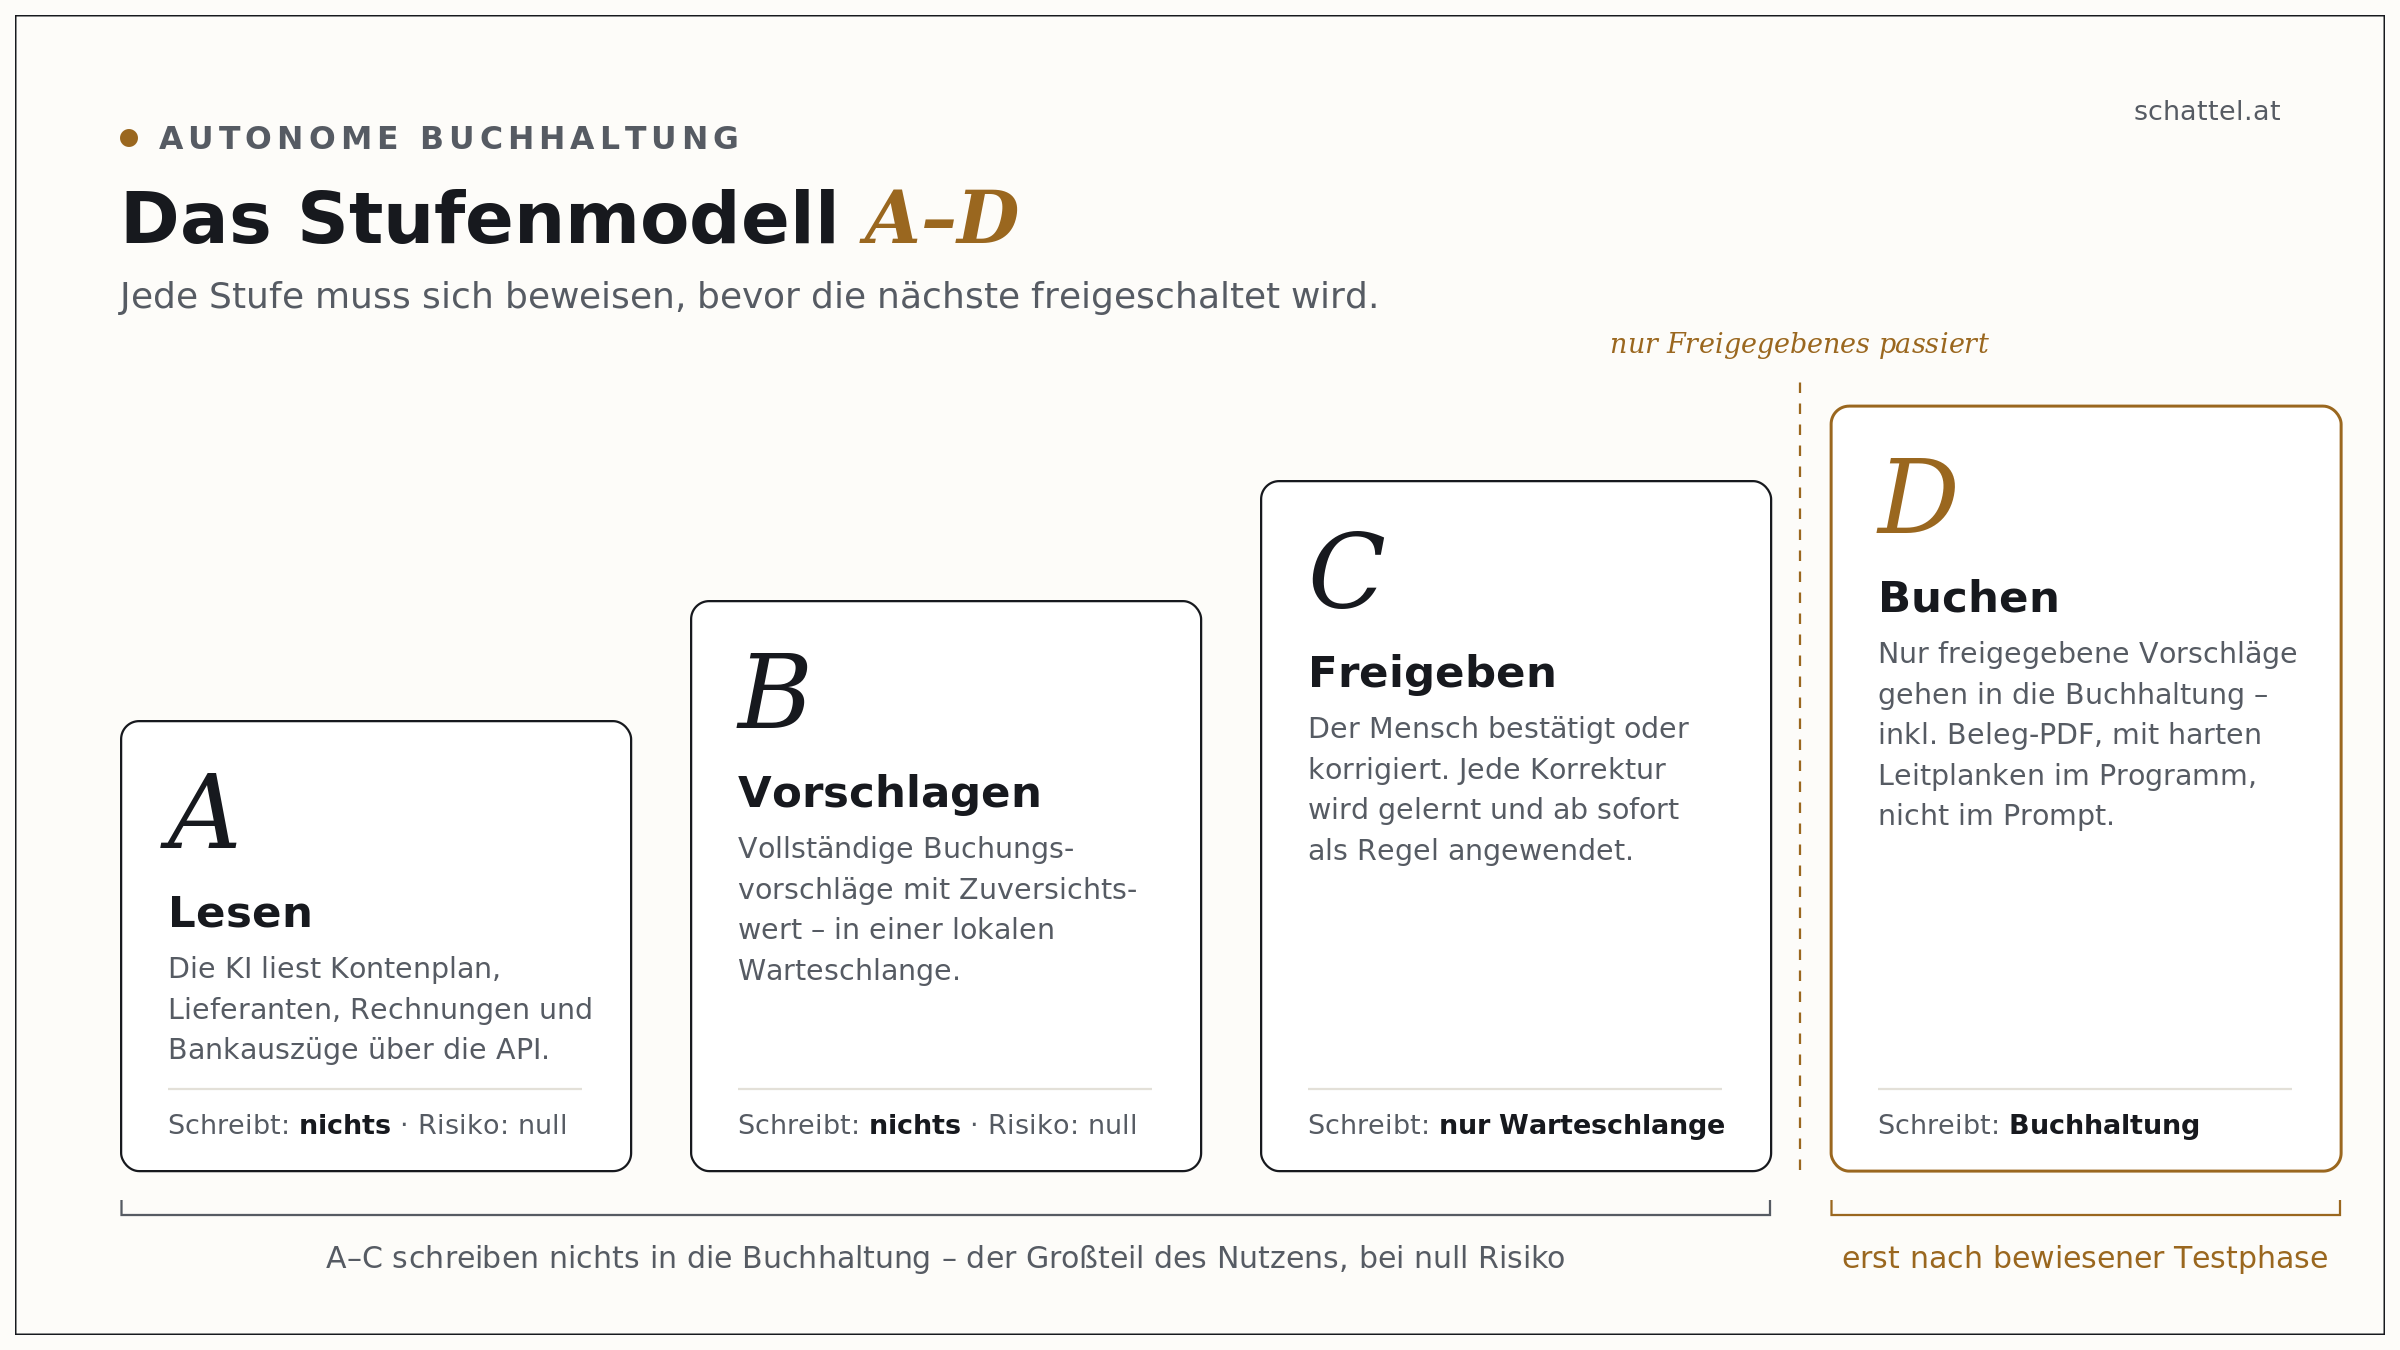
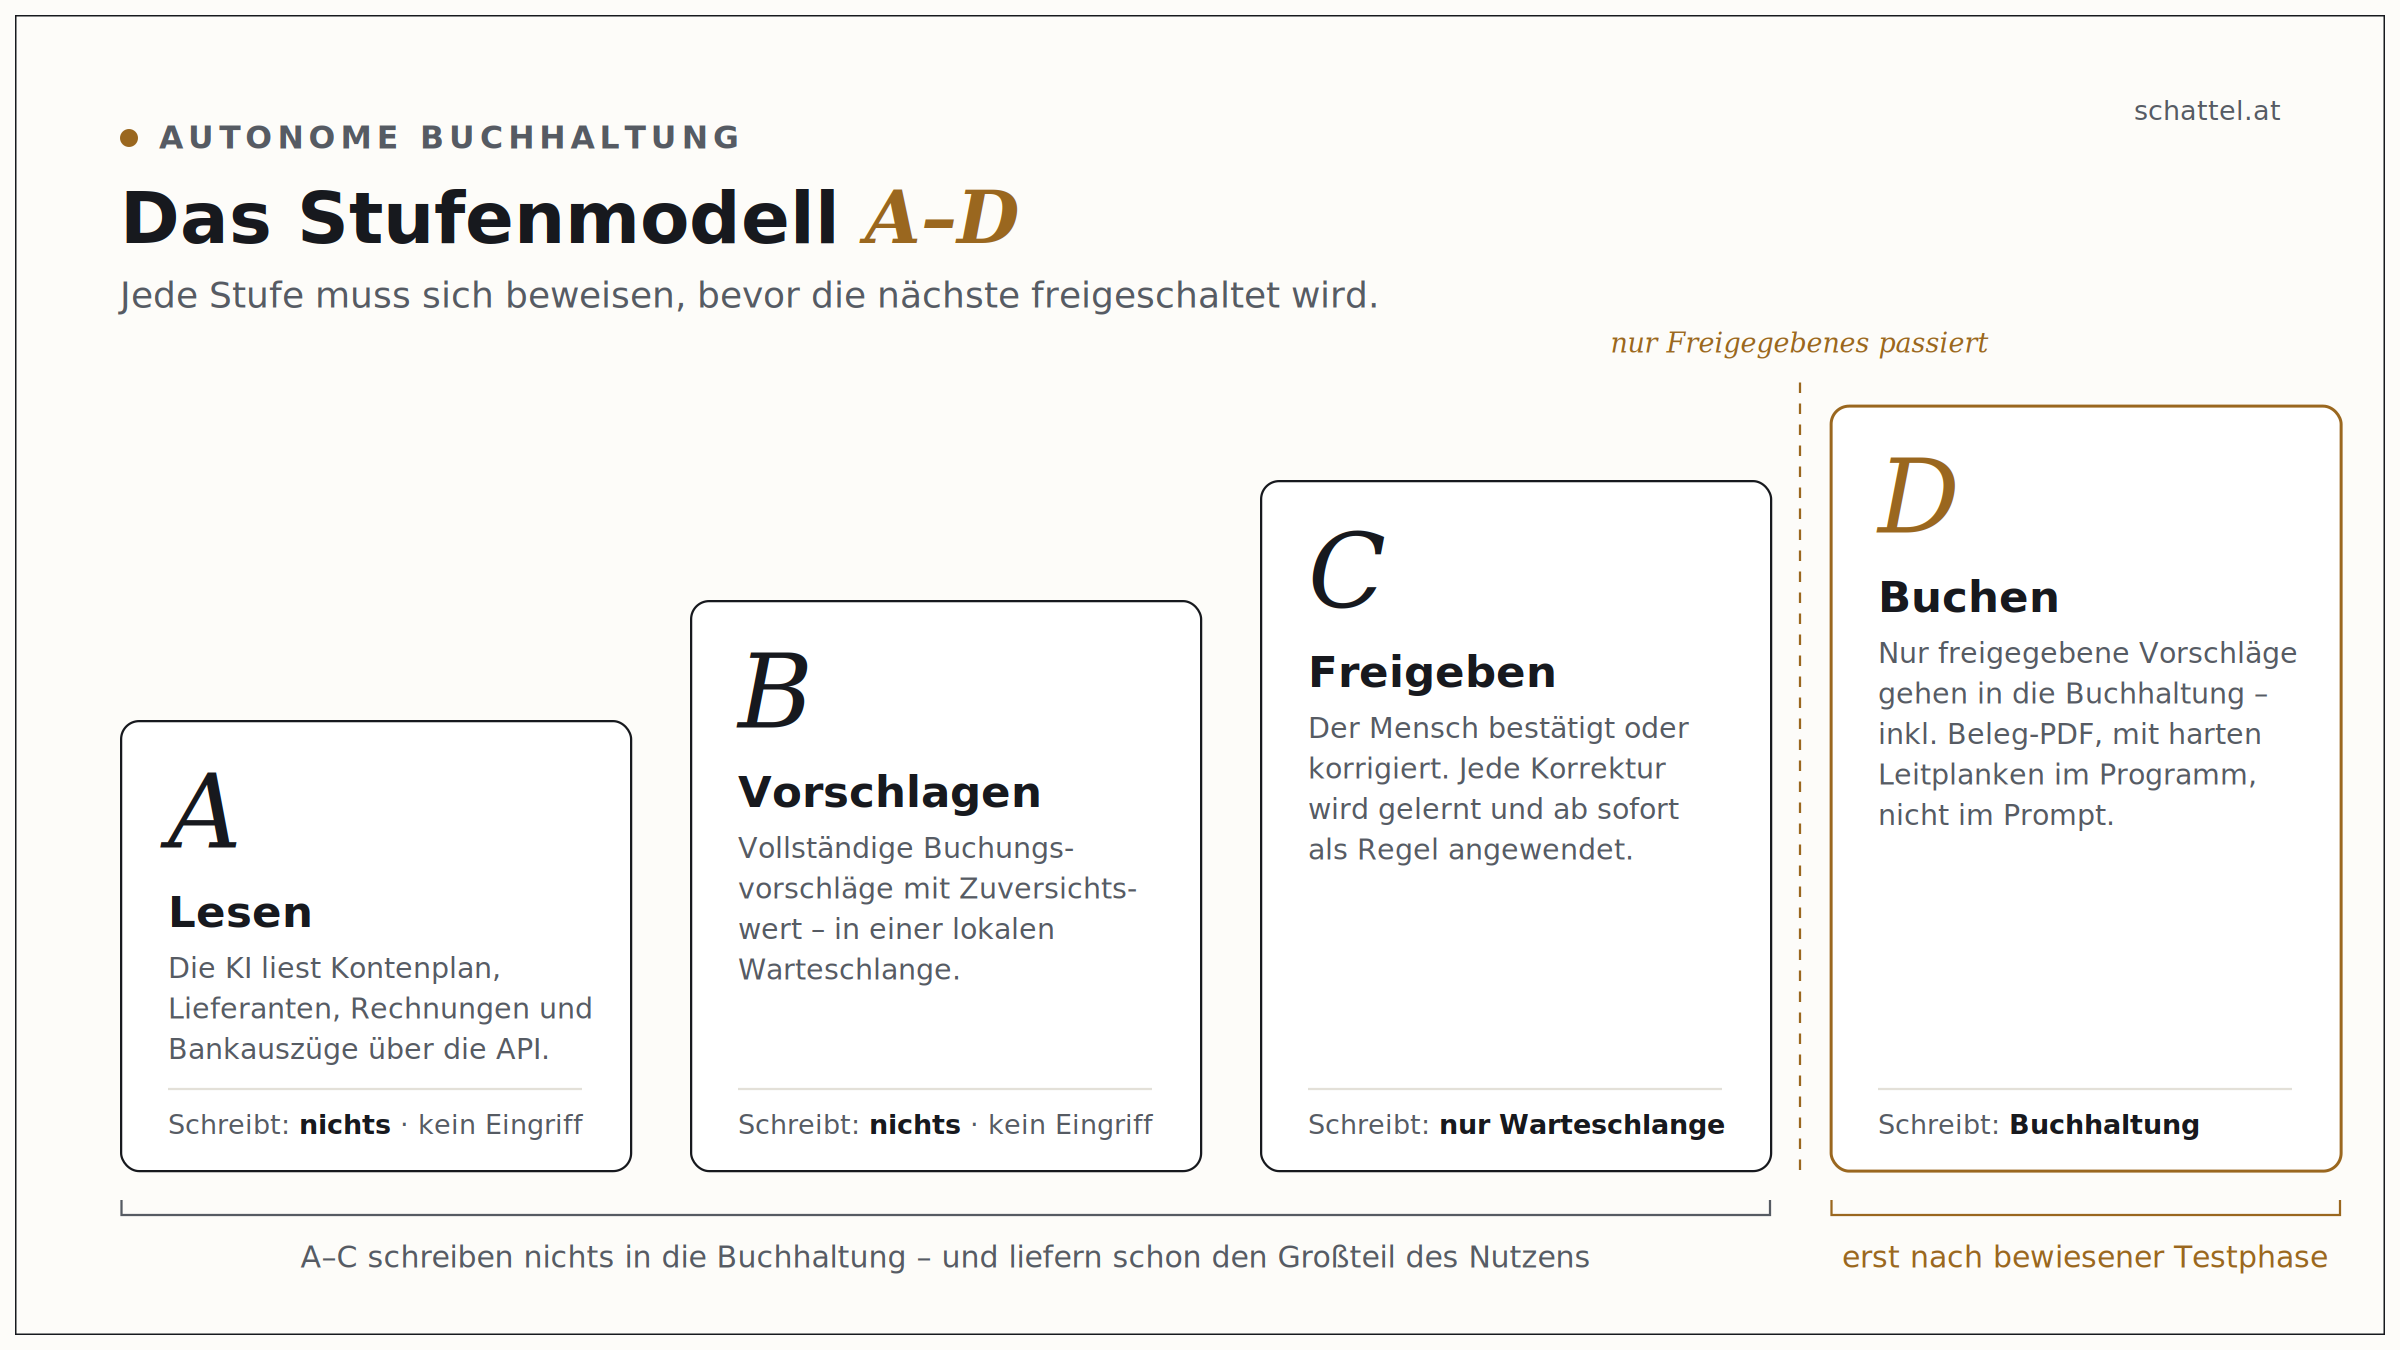
Korrekturrunde 2: Stufenmodell-Grafik ohne "Risiko: null" + zwei Textnachzüge
- Grafiktausch byte-identisch aus dem Master (md5-geprüft), Markup unverändert
- Bauanleitung: "Stufen ohne Buchungszugriff", UID-Fehlen nur als Hinweis
  (maßgeblich Leistung/Leistungsort/Unternehmerstatus)
- AI Act: AVV auch im ersten DSGVO-Absatz auf externe Dienstleister eingeschränkt

diff --git a/src/pages/blog/autonome-buchhaltung-bauanleitung.md b/src/pages/blog/autonome-buchhaltung-bauanleitung.md
@@ -83,7 +83,7 @@ Zwei Konsequenzen dieses Aufbaus werden regelmäßig unterschätzt.
 
 Erstens: **Die Stufen A bis C sind bereits das halbe Produkt.** Eine KI, die alle Belege liest, sauber vorkontiert und Unstimmigkeiten meldet, spart den Großteil der Arbeit – auch wenn ein Mensch die Buchung noch selbst auslöst. Wer unsicher ist, bleibt dauerhaft auf Stufe C und hat trotzdem gewonnen.
 
-Zweitens: **Wer bei D anfängt, scheitert.** Ohne die Lernphase der Stufen B und C bucht die KI mit der Trefferquote des ersten Tages – und das Vertrauen, das ein Fehler in der echten Buchhaltung zerstört, gewinnt man nicht zurück. Die Testphase auf den risikofreien Stufen ist keine Vorsicht, sie ist der Bauplan.
+Zweitens: **Wer bei D anfängt, scheitert.** Ohne die Lernphase der Stufen B und C bucht die KI mit der Trefferquote des ersten Tages – und das Vertrauen, das ein Fehler in der echten Buchhaltung zerstört, gewinnt man nicht zurück. Die Testphase auf den Stufen ohne Buchungszugriff ist keine Vorsicht, sie ist der Bauplan.
 
 ### Welche Leitplanken verhindern Fehlbuchungen?
 
@@ -127,7 +127,7 @@ Wer seine Rechnungsdaten jetzt sauber strukturiert, erledigt die Pflichtübung g
 Bevor das System schreiben durfte, musste es prüfen können – der komplette Altbestand mehrerer Jahre wurde kontrolliert. Die Funde sind ein Lehrstück darüber, wo klassische Automatik systematisch danebenliegt:
 
 - **Software auf dem falschen Konto.** Die eingebaute Texterkennung hatte Software-Anschaffungen des Vorjahres dem Anlagevermögen zugeordnet, obwohl sie dort nicht hingehörten. Ergebniswirksam war das nicht – die Abschreibung als geringwertiges Wirtschaftsgut war ordnungsgemäß erfolgt. Der Schaden war ein anderer: ein aufgeblähtes Anlagenverzeichnis und eine Kontierung, die bei jeder späteren Auswertung in die Irre führt.
-- **Die OSS-Vorsteuerfalle.** Ausländische Digitalanbieter rechnen Betriebe, die keine UID hinterlegt haben, wie Privatkunden ab: mit österreichischer beziehungsweise deutscher Umsatzsteuer, abgeführt über den One-Stop-Shop. Für eine B2B-Leistung wäre aber Reverse Charge richtig – die ausgewiesene Steuer ist damit zu Unrecht ausgewiesen und **keine abziehbare Vorsteuer**. Erkennbar am Zusammentreffen: keine inländische UID des Anbieters, eigene UID fehlt auf der Rechnung. Die Konsequenz ist dreifach: Vorsteuerkorrektur, Reverse Charge nachträglich erfassen (Steuerschuld und – bei vollem Abzugsrecht – Vorsteuer in derselben Erklärung) und beim Anbieter die eigene UID hinterlegen, damit künftig Netto-Rechnungen kommen.
+- **Die OSS-Vorsteuerfalle.** Ausländische Digitalanbieter rechnen Betriebe, die keine UID hinterlegt haben, wie Privatkunden ab: mit österreichischer beziehungsweise deutscher Umsatzsteuer, abgeführt über den One-Stop-Shop. Für eine B2B-Leistung wäre aber Reverse Charge richtig – die ausgewiesene Steuer ist damit zu Unrecht ausgewiesen und **keine abziehbare Vorsteuer**. Ein Hinweis darauf: Die Rechnung nennt keine inländische UID des Anbieters, und die eigene UID fehlt – ob wirklich falsch abgerechnet wurde, entscheiden Leistung, Leistungsort und Unternehmerstatus, nicht das Rechnungsformular. Die Konsequenz ist dreifach: Vorsteuerkorrektur, Reverse Charge nachträglich erfassen (Steuerschuld und – bei vollem Abzugsrecht – Vorsteuer in derselben Erklärung) und beim Anbieter die eigene UID hinterlegen, damit künftig Netto-Rechnungen kommen.
 - **Kleinvieh mit System:** doppelt erfasste Belege (Abos haben systembedingt identische Beträge – Duplikate erkennt man an Rechnungsnummer plus Lieferant, nicht am Betrag), mehrfach angelegte Lieferanten im Stamm, eine Zahlung im falschen Wirtschaftsjahr.
 
 Diese Fehlerbilder sind nicht exotisch – sie entstehen überall dort, wo Vorschlagsautomatik auf Zeitdruck trifft. Eine KI-Prüfung des Bestands ist deshalb auch als eigenständige Maßnahme sinnvoll, ganz ohne Buchungsautomatisierung.

diff --git a/src/pages/blog/ai-act-kmu-was-jetzt-gilt.md b/src/pages/blog/ai-act-kmu-was-jetzt-gilt.md
@@ -39,7 +39,7 @@ Die richtige Vorbereitung ist keine Compliance-Akrobatik, sondern eine Inventur:
 
 ## Die DSGVO gilt daneben weiter – und ist meist die härtere Hürde
 
-Der AI Act ersetzt die DSGVO nicht. Personenbezogene Daten in einem KI-Werkzeug brauchen dieselbe Grundlage wie in jeder anderen Software: Rechtsgrundlage, Auftragsverarbeitungsvertrag, Zugriffskontrolle, Löschkonzept. In der Beratungspraxis scheitern KI-Projekte fast nie am AI Act – sie scheitern daran, dass niemand vorher geklärt hat, welche Daten das Werkzeug sehen darf.
+Der AI Act ersetzt die DSGVO nicht. Personenbezogene Daten in einem KI-Werkzeug brauchen dieselbe Grundlage wie in jeder anderen Software: Rechtsgrundlage, Zugriffskontrolle, Löschkonzept und – sobald ein externer Dienstleister die Daten für Sie verarbeitet – ein Auftragsverarbeitungsvertrag. In der Beratungspraxis scheitern KI-Projekte fast nie am AI Act – sie scheitern daran, dass niemand vorher geklärt hat, welche Daten das Werkzeug sehen darf.
 
 Wer es strenger braucht: EU-gehostete Modelle oder ein Open-Weight-Modell im eigenen Betrieb reduzieren die datenschutzrechtlichen Risiken spürbar – sie ersetzen aber keine DSGVO-konforme Verarbeitung: Rechtsgrundlage, Zugriffskontrolle und Löschkonzept braucht es auch dann – und einen Auftragsverarbeitungsvertrag überall dort, wo ein externer Dienstleister die Daten für Sie verarbeitet, beim Hoster etwa; der rein interne Betrieb braucht ihn nicht.
 
